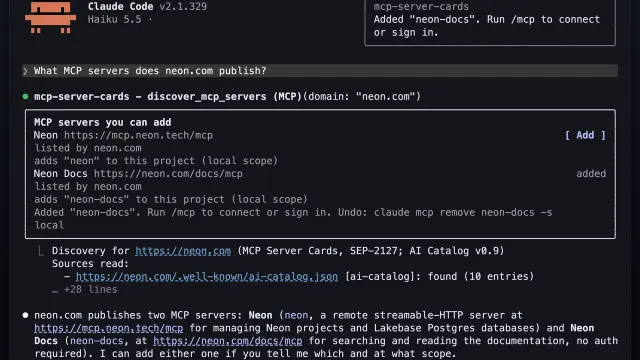
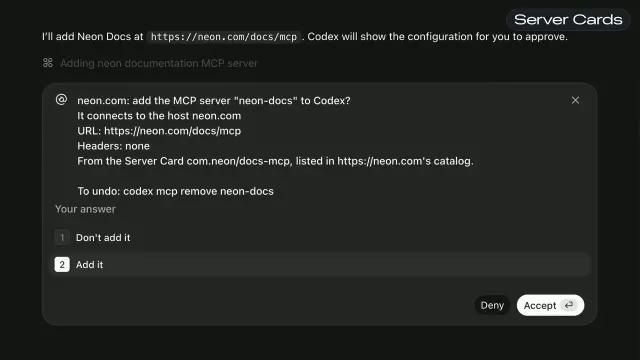
Site media: the real-window Skills and Server Cards cuts, with Codex
skills-real (Codex in the ChatGPT desktop app, Hugging Face's server, Codex's
own load form) and server-cards-real (neon.com in Claude Code, then the same
in Codex with its add form), 720p, 1.4 and 1.1 MB, out of git as before.
Posters: Codex's load form and its add form. Alt text and captions describe
the new takes, on the cards and the guide pages; the launch description
names the ChatGPT desktop app, as the READMEs do.

diff --git a/site/guide/server-cards.md b/site/guide/server-cards.md
@@ -28,8 +28,8 @@ Claude Code nor Codex supports by itself yet:
 
 <Recording
   cut="server-cards"
-  alt="In Claude Code, the question What MCP servers does neon.com publish? lists Neon and Neon Docs from neon.com's own catalog, each with an Add button. Add is pressed on Neon Docs, which is marked added, with a note to run /mcp to connect or sign in."
-  caption="A real session (16 s): neon.com's two servers, found from its domain. Add on Neon Docs writes it to Claude Code's config; connecting is left to /mcp."
+  alt="In Claude Code, What MCP servers does neon.com publish? lists Neon and Neon Docs from neon.com's own catalog, each with an Add button, and Add on Neon Docs marks it added, with a note to run /mcp to connect or sign in. Then the same in Codex, in the ChatGPT desktop app: Codex lists the two servers, and asked to add Neon Docs, shows its own form naming the host, the URL, the headers (none) and the Server Card it came from, with Don't add it and Add it. After Add it, neon-docs is in Codex's config; codex mcp remove neon-docs undoes it."
+  caption="Real sessions (27 s; waits sped up, with a badge saying how fast): neon.com's two servers, found from its domain, in Claude Code and then in Codex. Adding one writes it to the host's own config, and the host connects it."
 />
 
 ## Install

diff --git a/site/guide/skills.md b/site/guide/skills.md
@@ -15,8 +15,8 @@ openai/codex#48000).
 
 <Recording
   cut="skills"
-  alt="In Claude Code, /mcp-skills lists the skills Hugging Face's MCP server serves. Asked to use huggingface-local-models for a 16 GB Mac, Claude asks to load it and Claude Code asks once for approval; the skill and its files are read from the server, and Claude answers from it."
-  caption="A real session against Hugging Face's public MCP server (21 s). Waits are sped up, with a badge saying how fast."
+  alt="In Codex, in the ChatGPT desktop app, asked what skills the Hugging Face MCP server serves, Codex lists its 25 skills, all visible in Codex. Asked which GGUF quantization to use for a 7B model on a 16 GB Mac, Codex asks in its own form whether to load the skill huggingface-local-models from that server, saying its 4 files are each checked against the server's SHA-256 digest when read, with Do not load it, Show me its SKILL.md first, and Load it. After Load it, Codex answers from the skill: Q4_K_M."
+  caption="A real session in Codex, in the ChatGPT desktop app, against Hugging Face's public MCP server (25 s; waits sped up, with a badge saying how fast)."
 />
 
 ## Install
